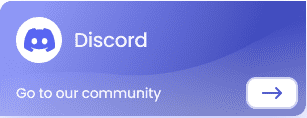
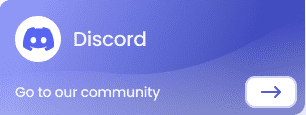
fixed faq empty call and data aos once

diff --git a/src/Screens/Support/FAQ/FAQ.js b/src/Screens/Support/FAQ/FAQ.js
@@ -116,17 +116,23 @@ const FAQ = () => {
 
 
   const searchFaq = async() => { 
-
-      await axios.get(`https://news-manage.dyp.finance/api/faqs/search/${searchString}`).then((res) => {
-        setSearchItems(res.data)
-        setFaqTitle('')
-        setSearchBox(true)
+      if(searchString === ""){
+        setSearchItems([])
+        setSearchBox(false)
         
-      }).catch((err) => console.error(err))
-   
+      }else{
+        await axios.get(`https://news-manage.dyp.finance/api/faqs/search/${searchString}`).then((res) => {
+          setSearchItems(res.data)
+          setFaqTitle('')
+          setSearchBox(true)
+          
+        }).catch((err) => console.error(err))
+        
+      }
+      
   }
 
-  const selectSearchFaq = async(id, collapse) => {
+  const selectSearchFaq = async(id) => {
     await axios.get(`https://news-manage.dyp.finance/api/faqs/${id}`).then((res) => {
       setFaqItems(res.data)
       categories.map((category) => {
@@ -186,8 +192,8 @@ const FAQ = () => {
             {searchBox &&
             <div className="search-items p-4 mt-4 w-50">
             {searchItems.length > 0 ?
-              searchItems.slice(0, 3).map((searchItem) => (
-                <div className="search-item p-3" onClick={() => selectSearchFaq(searchItem.category, searchItem.collapse)}>
+              searchItems.slice(0, 3).map((searchItem, index) => (
+                <div key={index} className="search-item p-3" onClick={() => selectSearchFaq(searchItem.category, searchItem.collapse)}>
                   <p className="mb-0">{searchItem.title.slice(0, 50) + '...'}</p>
                 </div>
               ))
@@ -201,7 +207,7 @@ const FAQ = () => {
           <div className="row categories-grid mt-5 gap-4">
             {categories.map((category, index) => (
               <div
-                onClick={() => fetchFaq(category.id, category.title)}
+                onClick={() => fetchFaq(category.id)}
                 key={index}
                 className={`category-card d-flex justify-content-center ${
                   faqTitle === category.title ? "active-category" : null

diff --git a/src/components/Footer/_footer.scss b/src/components/Footer/_footer.scss
@@ -107,21 +107,22 @@
     .footer{
         .footer-links{
             min-height: 400px;
-
+            border-radius:  28px 28px 0px 0px;
             h4{
                 font-size: 18px !important;
             }
         }
-    }
-
-    .socials{
-        row-gap: 20px;
-
-        .socials-container{
-            grid-template-columns: repeat(3, 1fr) !important;
+        .socials{
+            row-gap: 20px;
+            border-radius:  28px 28px 0px 0px;
+            .socials-container{
+                grid-template-columns: repeat(3, 1fr);
+            }
+         
         }
-     
     }
+
+
 
 
     .marketplaces{

diff --git a/src/Screens/Support/GetInTouch/_getintouch.scss b/src/Screens/Support/GetInTouch/_getintouch.scss
@@ -23,12 +23,16 @@
       bottom: 15px;
       left: 15px;
       transition: all .5s;
+      border-radius: 0 0 12px 0px;
+      box-shadow: 0px 22px 44px rgba(36, 161, 222, 0.32);
     }
     .discord {
       position: absolute;
       right: 15px;
       top: 15px;
       transition: all .5s;
+      border-radius: 0 0 12px 0px;
+      box-shadow: 0px 22px 44px rgba(88, 101, 242, 0.32);
     }
 
     .telegram:hover,
@@ -81,7 +85,7 @@
    .discord,
    .telegram{
     position: unset !important;
-    width: 260px;
-    height: 105px;
+    width: 250px;
+    height: 95px;
    }
 }

diff --git a/src/Screens/Dyp/SupportedAssets/SupportedAssets.js b/src/Screens/Dyp/SupportedAssets/SupportedAssets.js
@@ -5,7 +5,7 @@ import ethDropdown from "../assets/ethereumDropdown.svg";
 import bnbDropdown from "../assets/bnbDropdown.svg";
 import avaDropdown from "../assets/avaDropdown.svg";
 import dropdownIndicator from "../assets/dropdownIndicator.svg";
-import Spiral from "../../../assets/DypAssets/spiral.svg";
+import Spiral from "../../../assets/DypAssets/spiral.png";
 import rightArrow from "../../../assets/filledArrow.svg";
 
 const SupportedAssets = () => {

diff --git a/src/Screens/Dyp/Solutions/Solutions.js b/src/Screens/Dyp/Solutions/Solutions.js
@@ -85,7 +85,7 @@ const Solutions = () => {
       />
 
       <div className="container-lg position-relative" id="solutions">
-        <div className="row px-5" style={{ marginTop: "150px" }}>
+        <div className="row" style={{ marginTop: "150px" }}>
           <Title top="Our" bottom="Solutions"  animation="fade-up" duration="1000"/>
         </div>
         <div className="row d-grid px-3 solutions-card-container">

diff --git a/src/Screens/Support/SupportMainHero/SupportMainHero.js b/src/Screens/Support/SupportMainHero/SupportMainHero.js
@@ -30,7 +30,7 @@ const SupportMainHero = () => {
         </div>
         </div>
         <div
-        className="row pt-5 p-4 justify-content-center gap-5"
+        className="row pt-5 p-4 justify-content-center gap-0 gap-lg-5"
         style={{ zIndex: 5 }}
       >
         <a href="#faq" className="text-decoration-none submenu-link">

diff --git a/src/App.js b/src/App.js
@@ -21,7 +21,9 @@ import BuyDypScreen from "./Screens/BuyDyp/BuyDypScreen";
 
 function App() {
   useEffect(() => {
-    AOS.init();
+    AOS.init({
+      once: true
+    });
   }, []);
 
   return (

diff --git a/src/Screens/Support/SupportMainHero/_supportmainhero.scss b/src/Screens/Support/SupportMainHero/_supportmainhero.scss
@@ -99,4 +99,7 @@
     width: 150px;
     left: 0;
   }
+
+  
+  
 }
